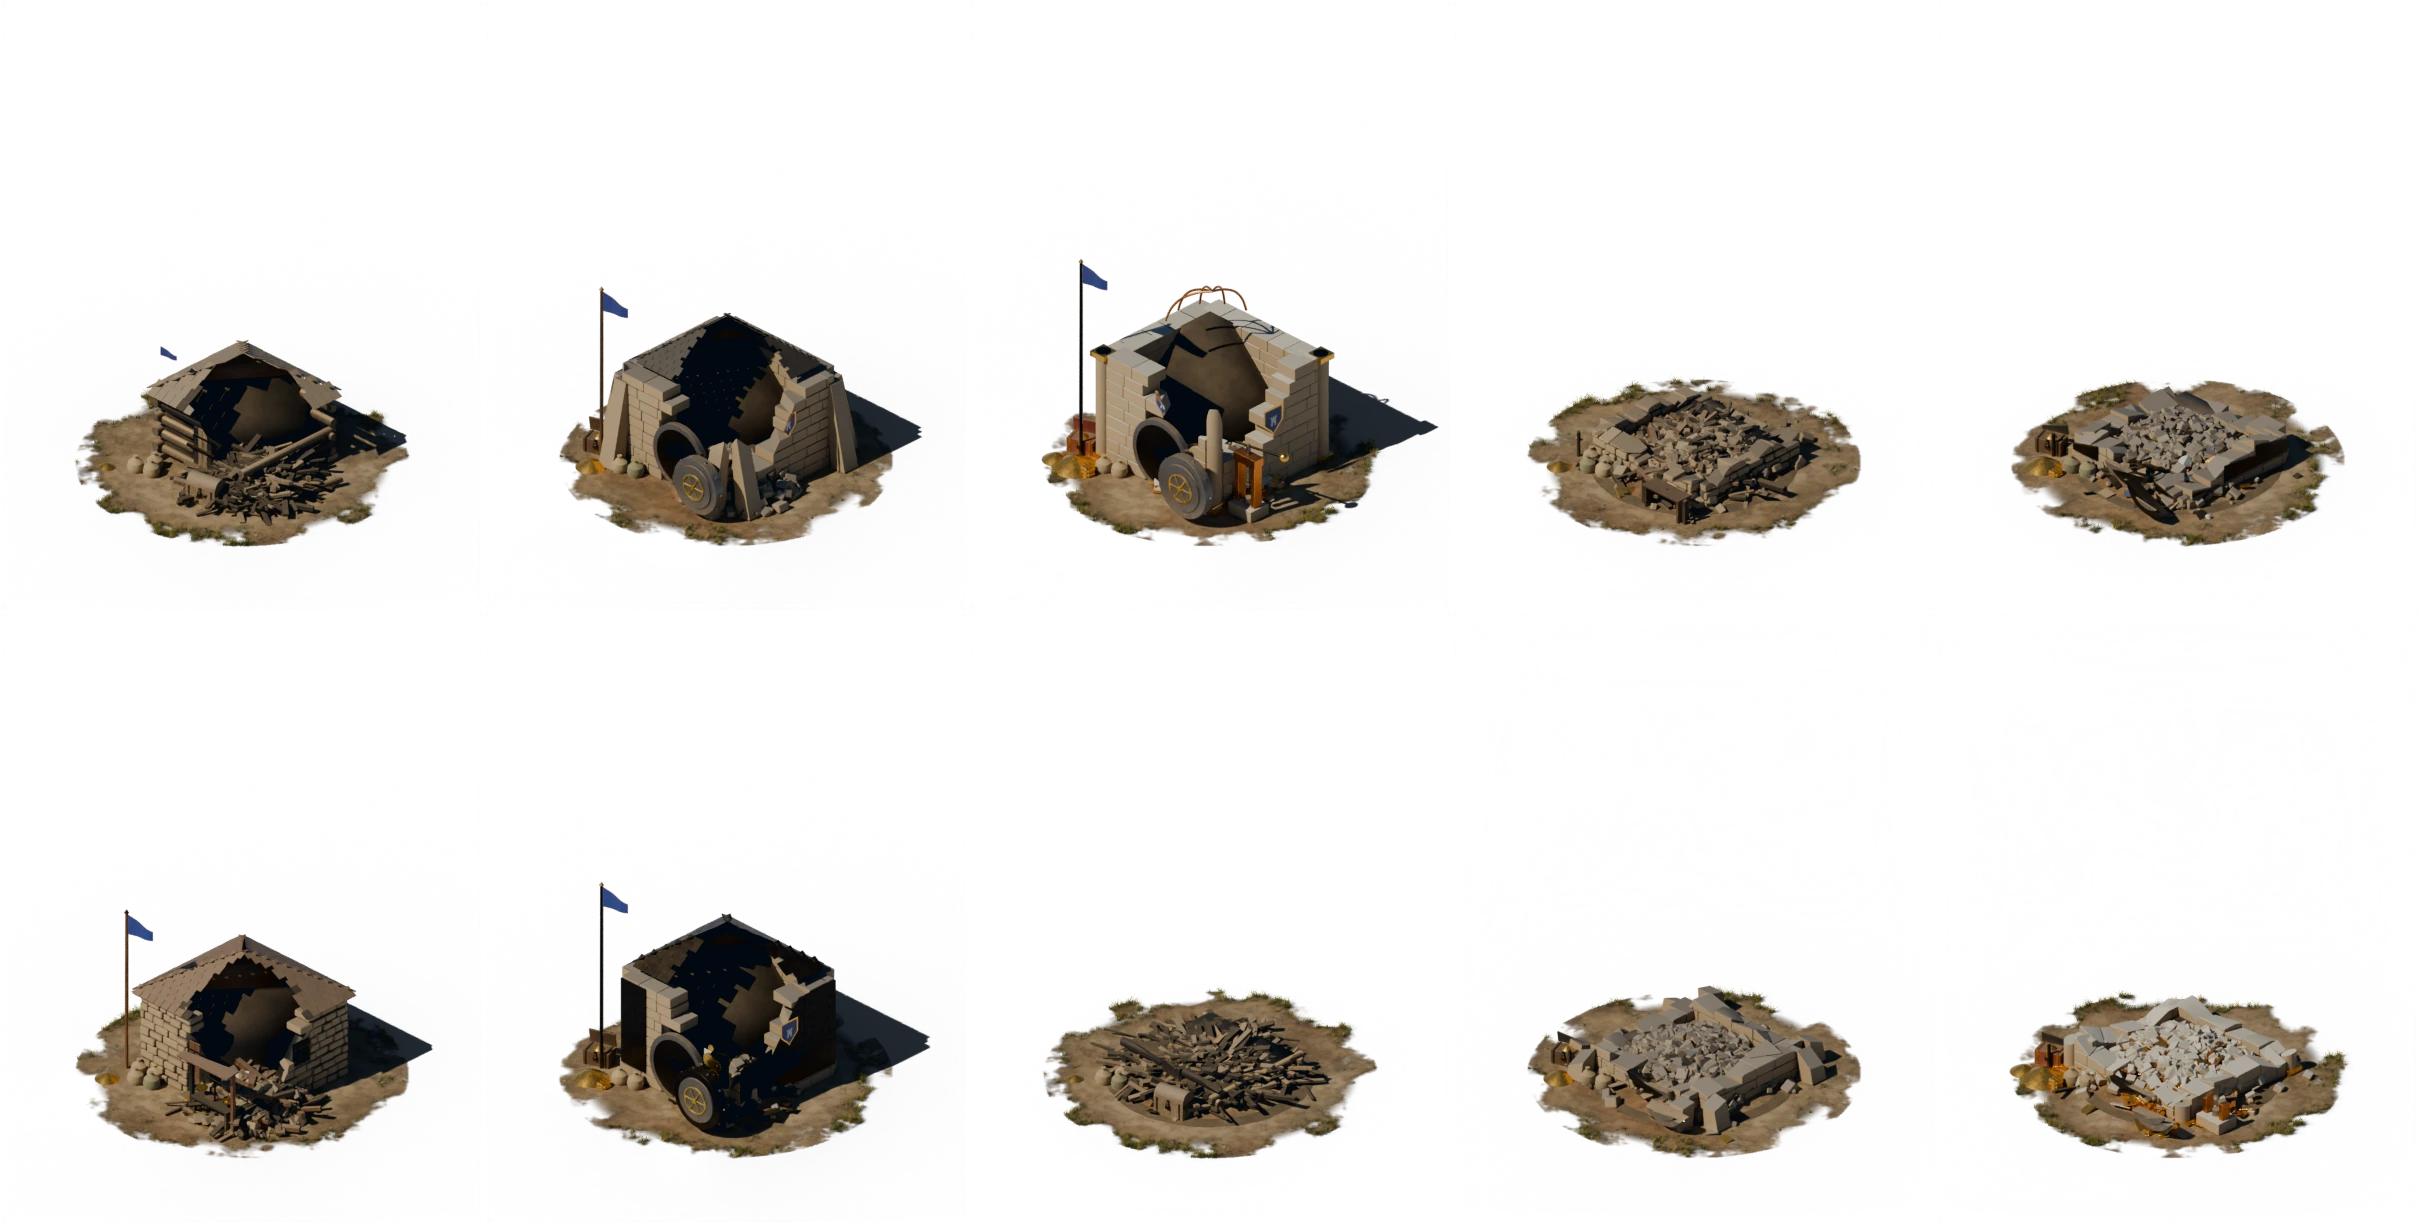
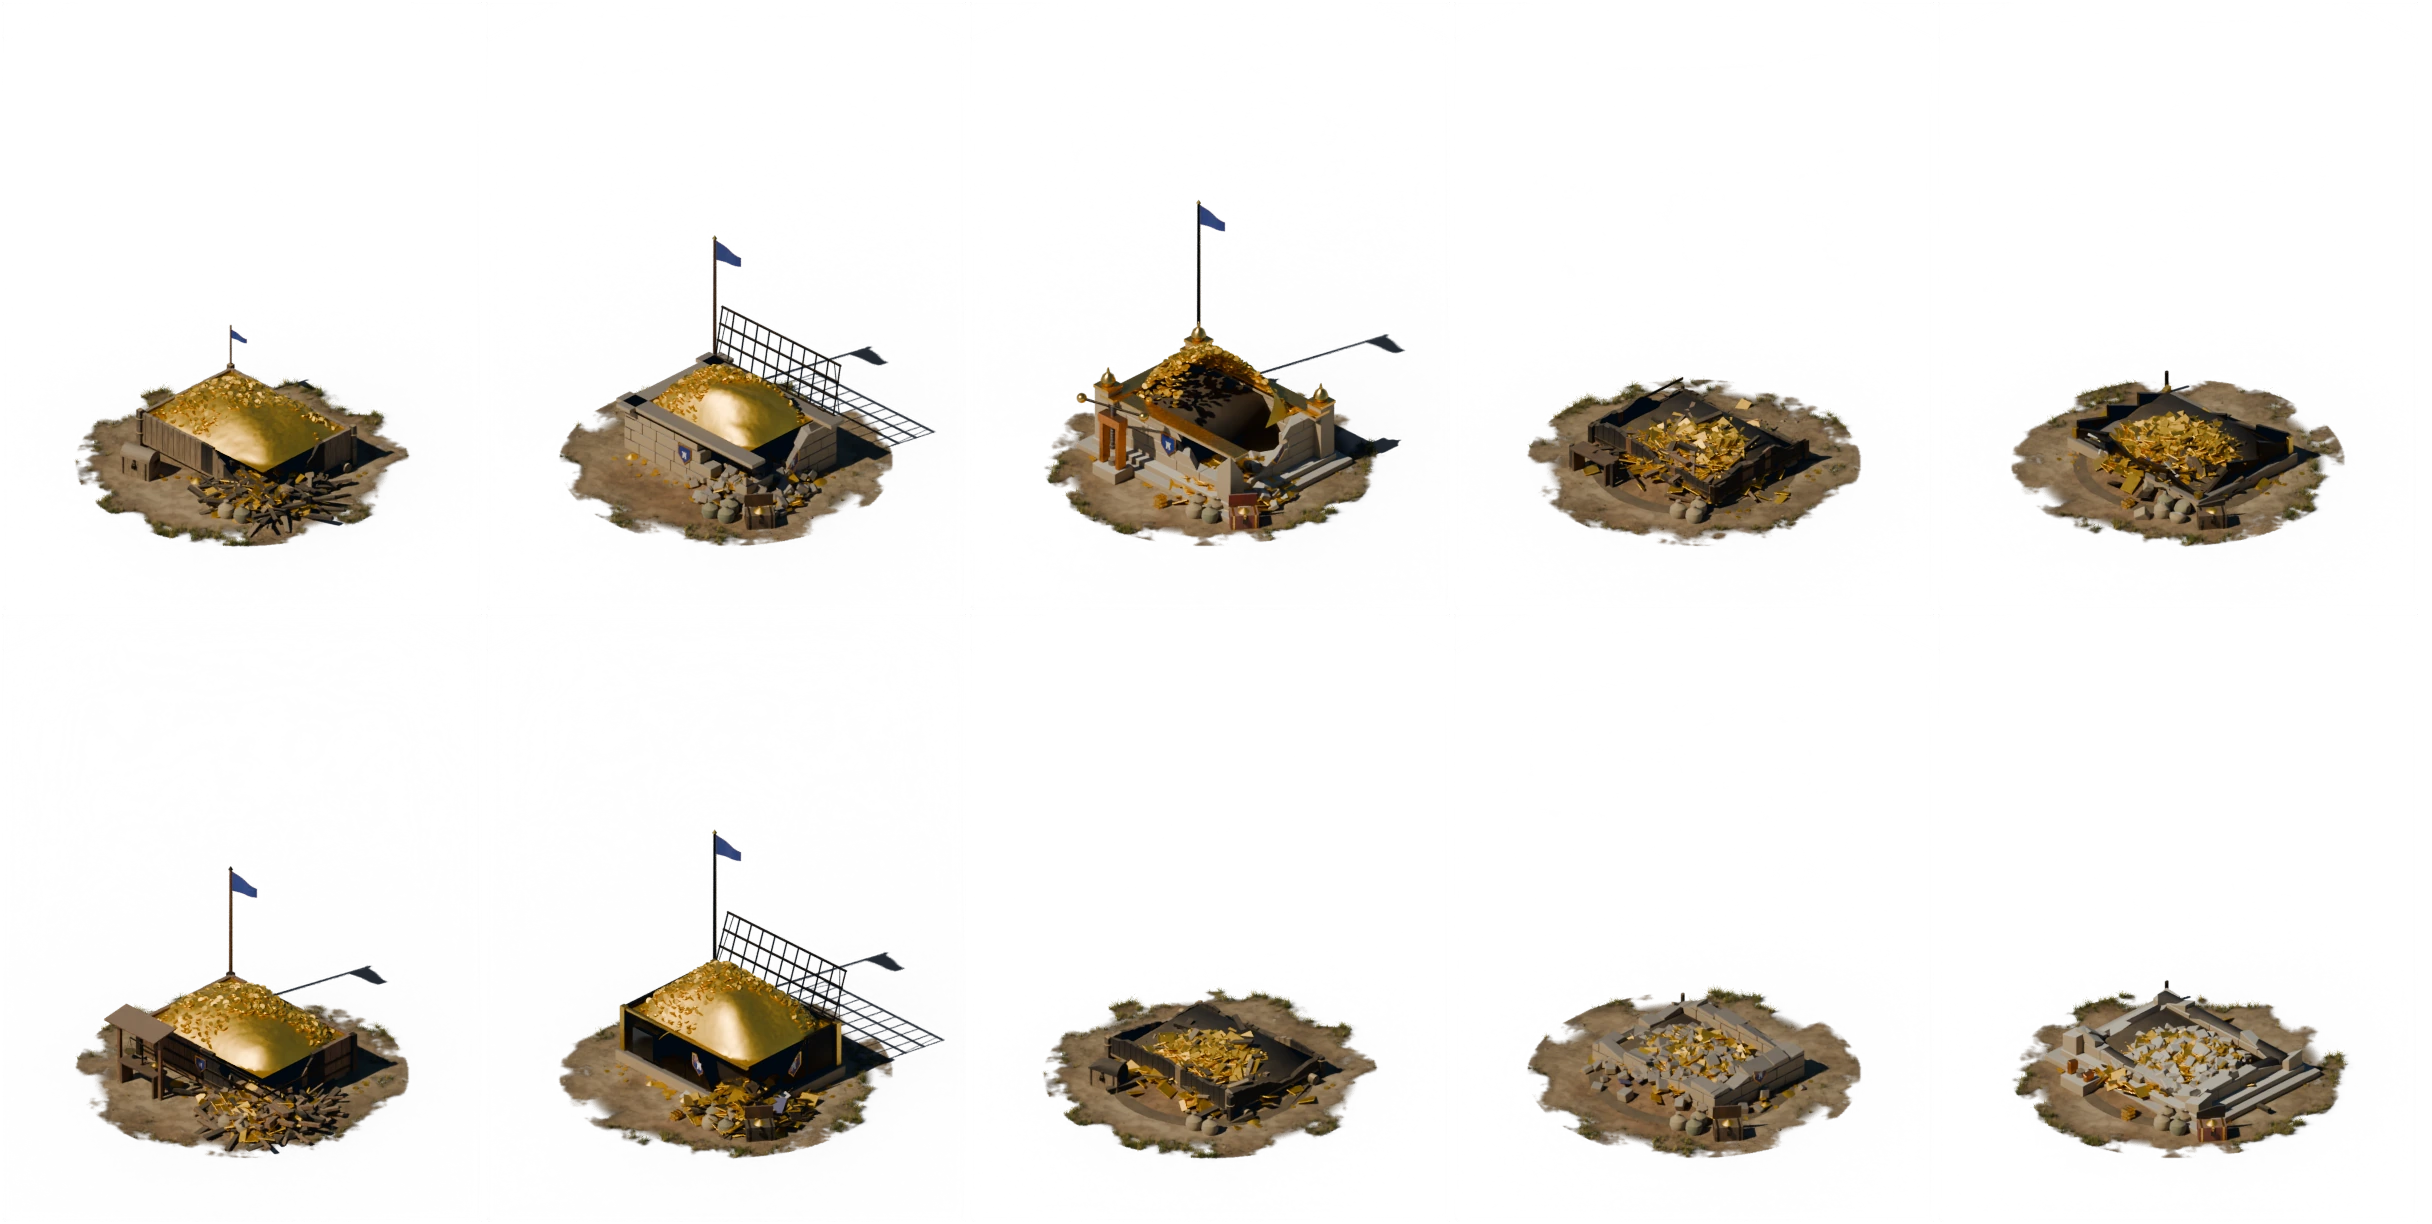
art: treasury re-rendered as a gold coin trough (normal, damaged, rubble)
Claude-Session: https://claude.ai/code/session_01RjoRvJnVjVFTKFCatVx85i

diff --git a/art/SOP.md b/art/SOP.md
@@ -449,7 +449,7 @@ Start every new object by copying the closest existing model and keeping its str
 
 **New building (base)** — `models/building.py` is the construction kit (masonry block by block with openings cut, log and plank walls, gable roofs of real shingles on a boarded deck, windows, doors, flag mast, crates, barrels). `render_buildings.py` renders one static frame per level (`SPRITE_WH_M`, `ANCHOR_FROM_BOTTOM_M`, own soil patch), `--review` makes the level sheet, `--pack` writes `buildings/<id>@1x|@2x`, frames `<id>_L<n>`, manifest key `buildings`. Doors and emblems face -Y and +X (the faces the camera sees). Each level: new material and one new machine; the silhouette stays.
 
-Built so far: `hq`, `lab`, `muster` (Военно свикване; its mark is a military horn on a post or tower at the +X side, from an ox horn to a crown of gilded fanfares), `arsenal` (two crossed barrels over the gate, a lifting rig in the yard), `treasury` (squat strongroom, gold pile left of the door, round vault door from L3). Give every new building one mark of this kind that reads at game zoom and grows with the level, so the player knows what it is for without a label.
+Built so far: `hq`, `lab`, `muster` (Военно свикване; its mark is a military horn on a post or tower at the +X side, from an ox horn to a crown of gilded fanfares), `arsenal` (two crossed barrels over the gate, a lifting rig in the yard), `treasury` (a big open trough heaped with gold coins, the mound growing with the level; the mound is a displaced grid plus hundreds of loose coins in `gold_coins`, a dust-free gold). Give every new building one mark of this kind that reads at game zoom and grows with the level, so the player knows what it is for without a label.
 
 **Damage states (buildings and guns)** — `strelite_art/damage.py`, applied after `build()` and before `stamp()`; never model a damaged version by hand.
 
